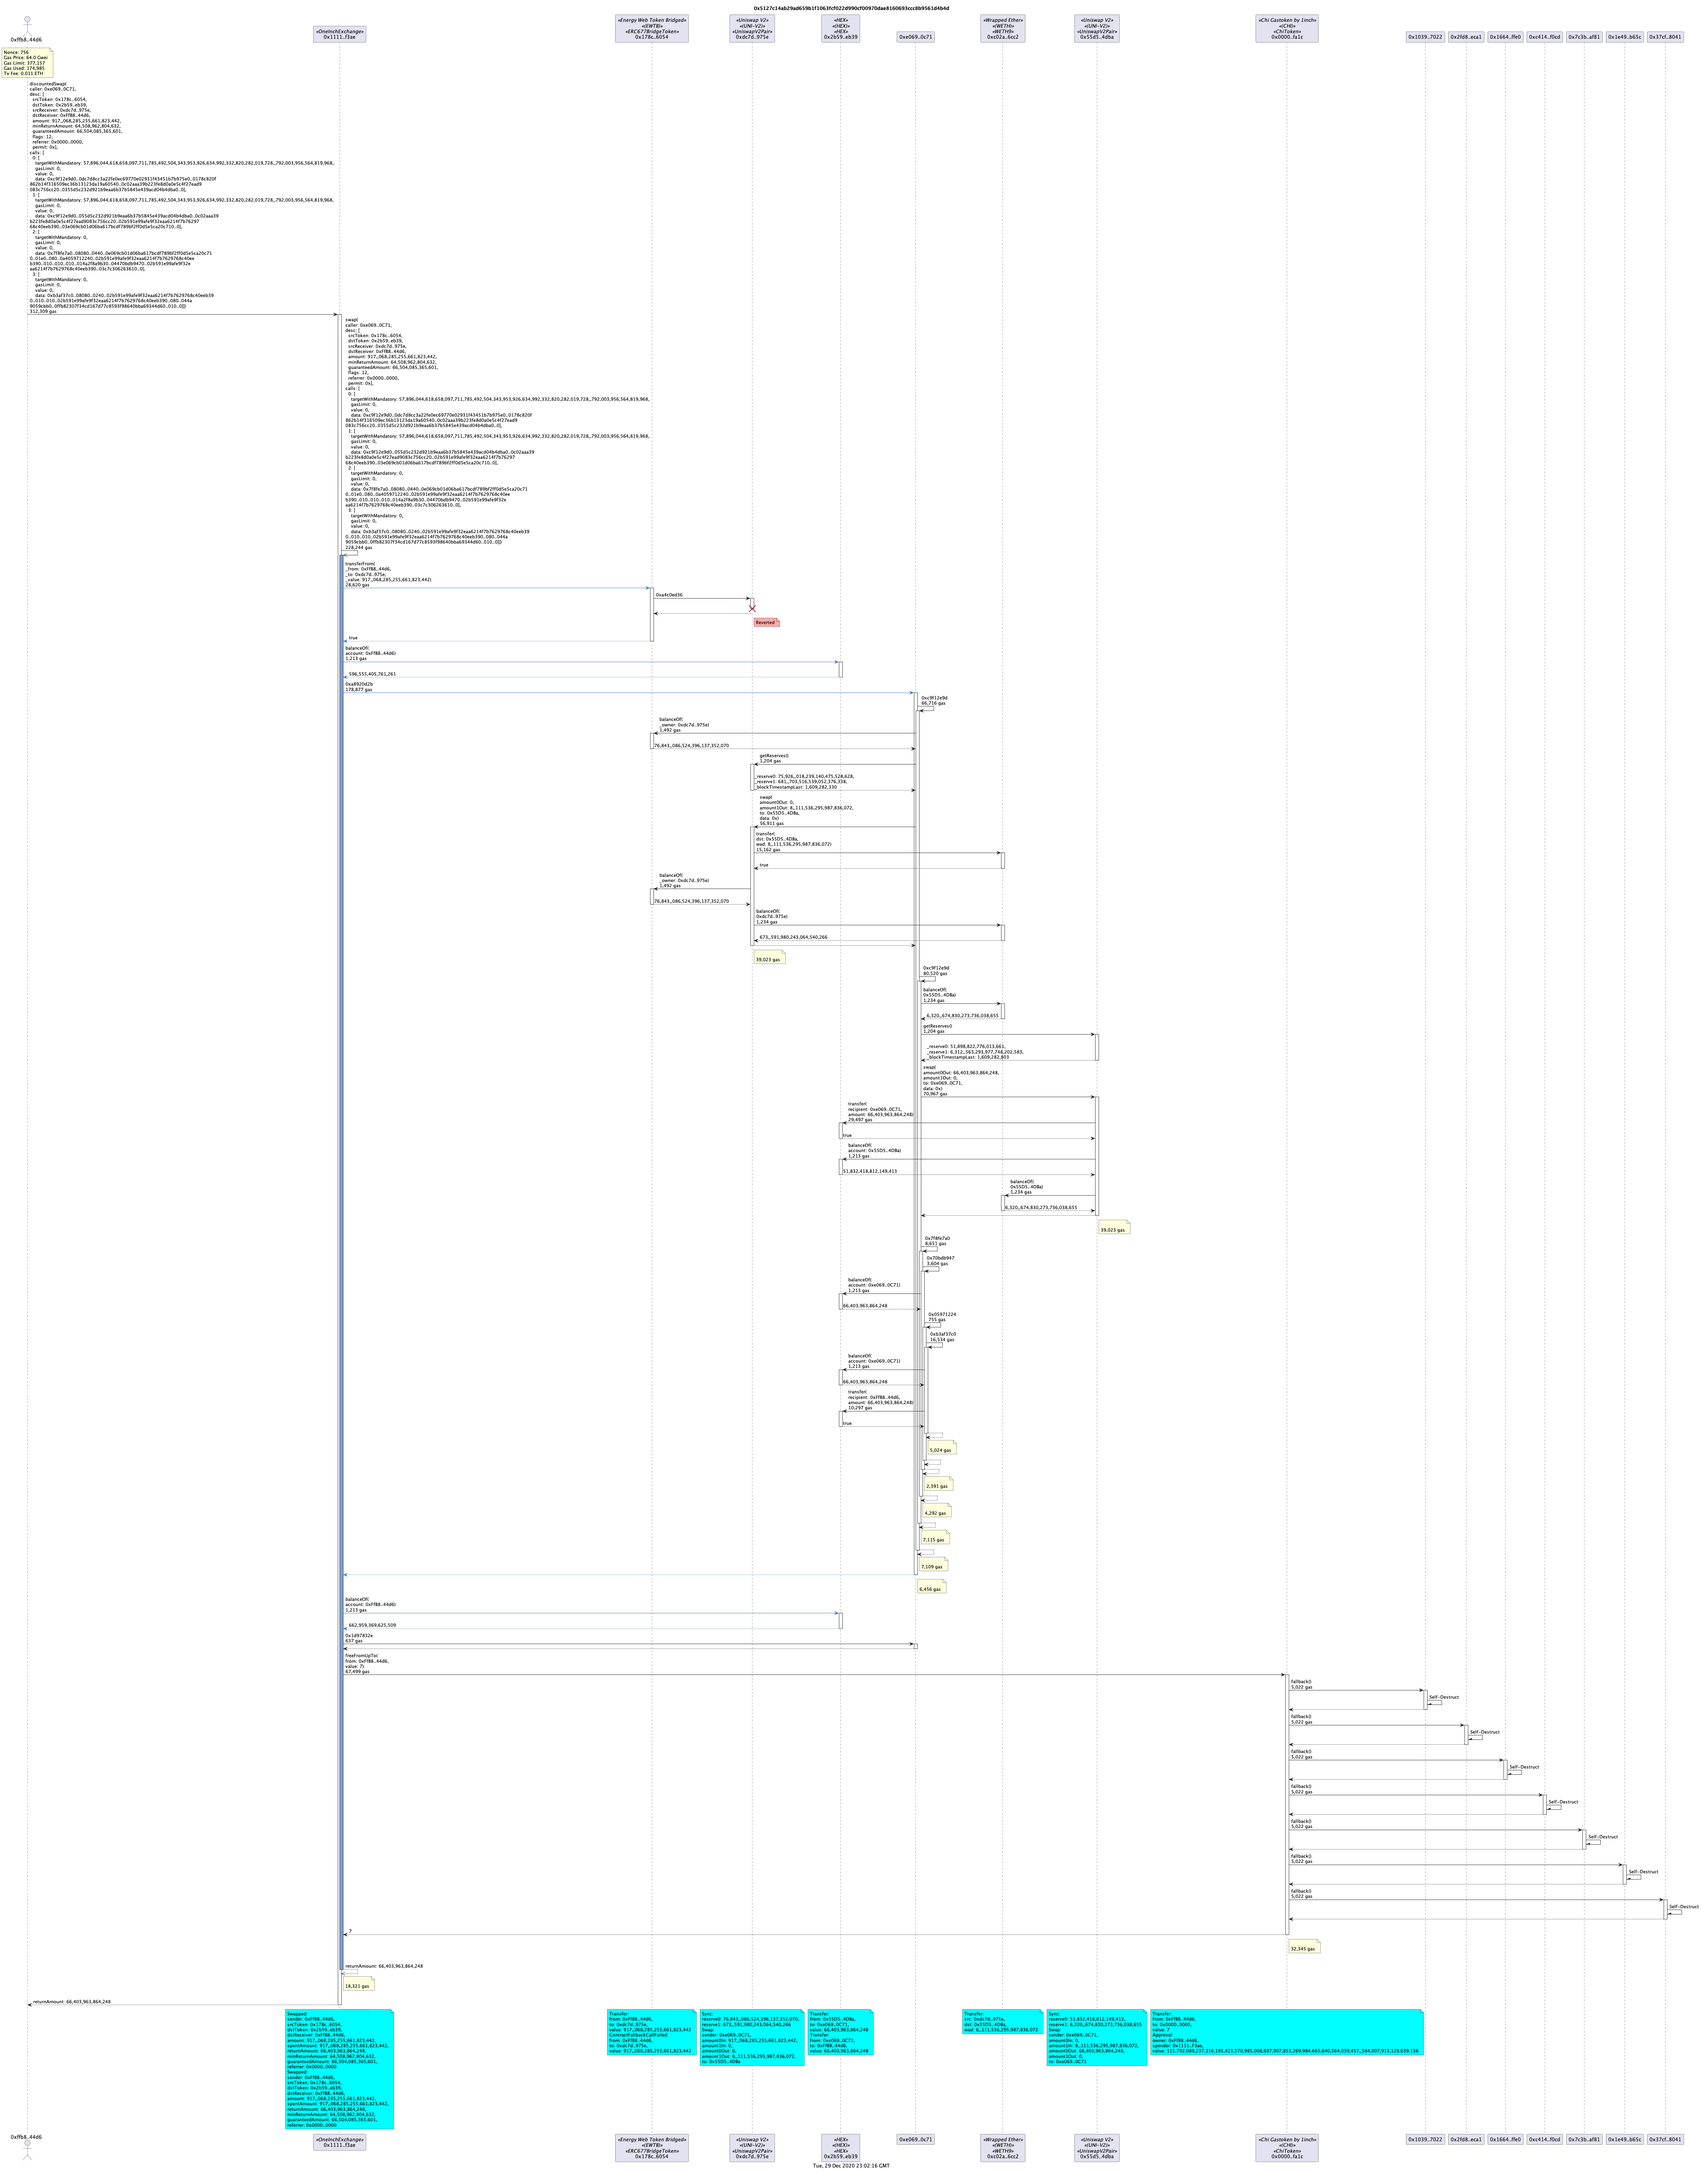
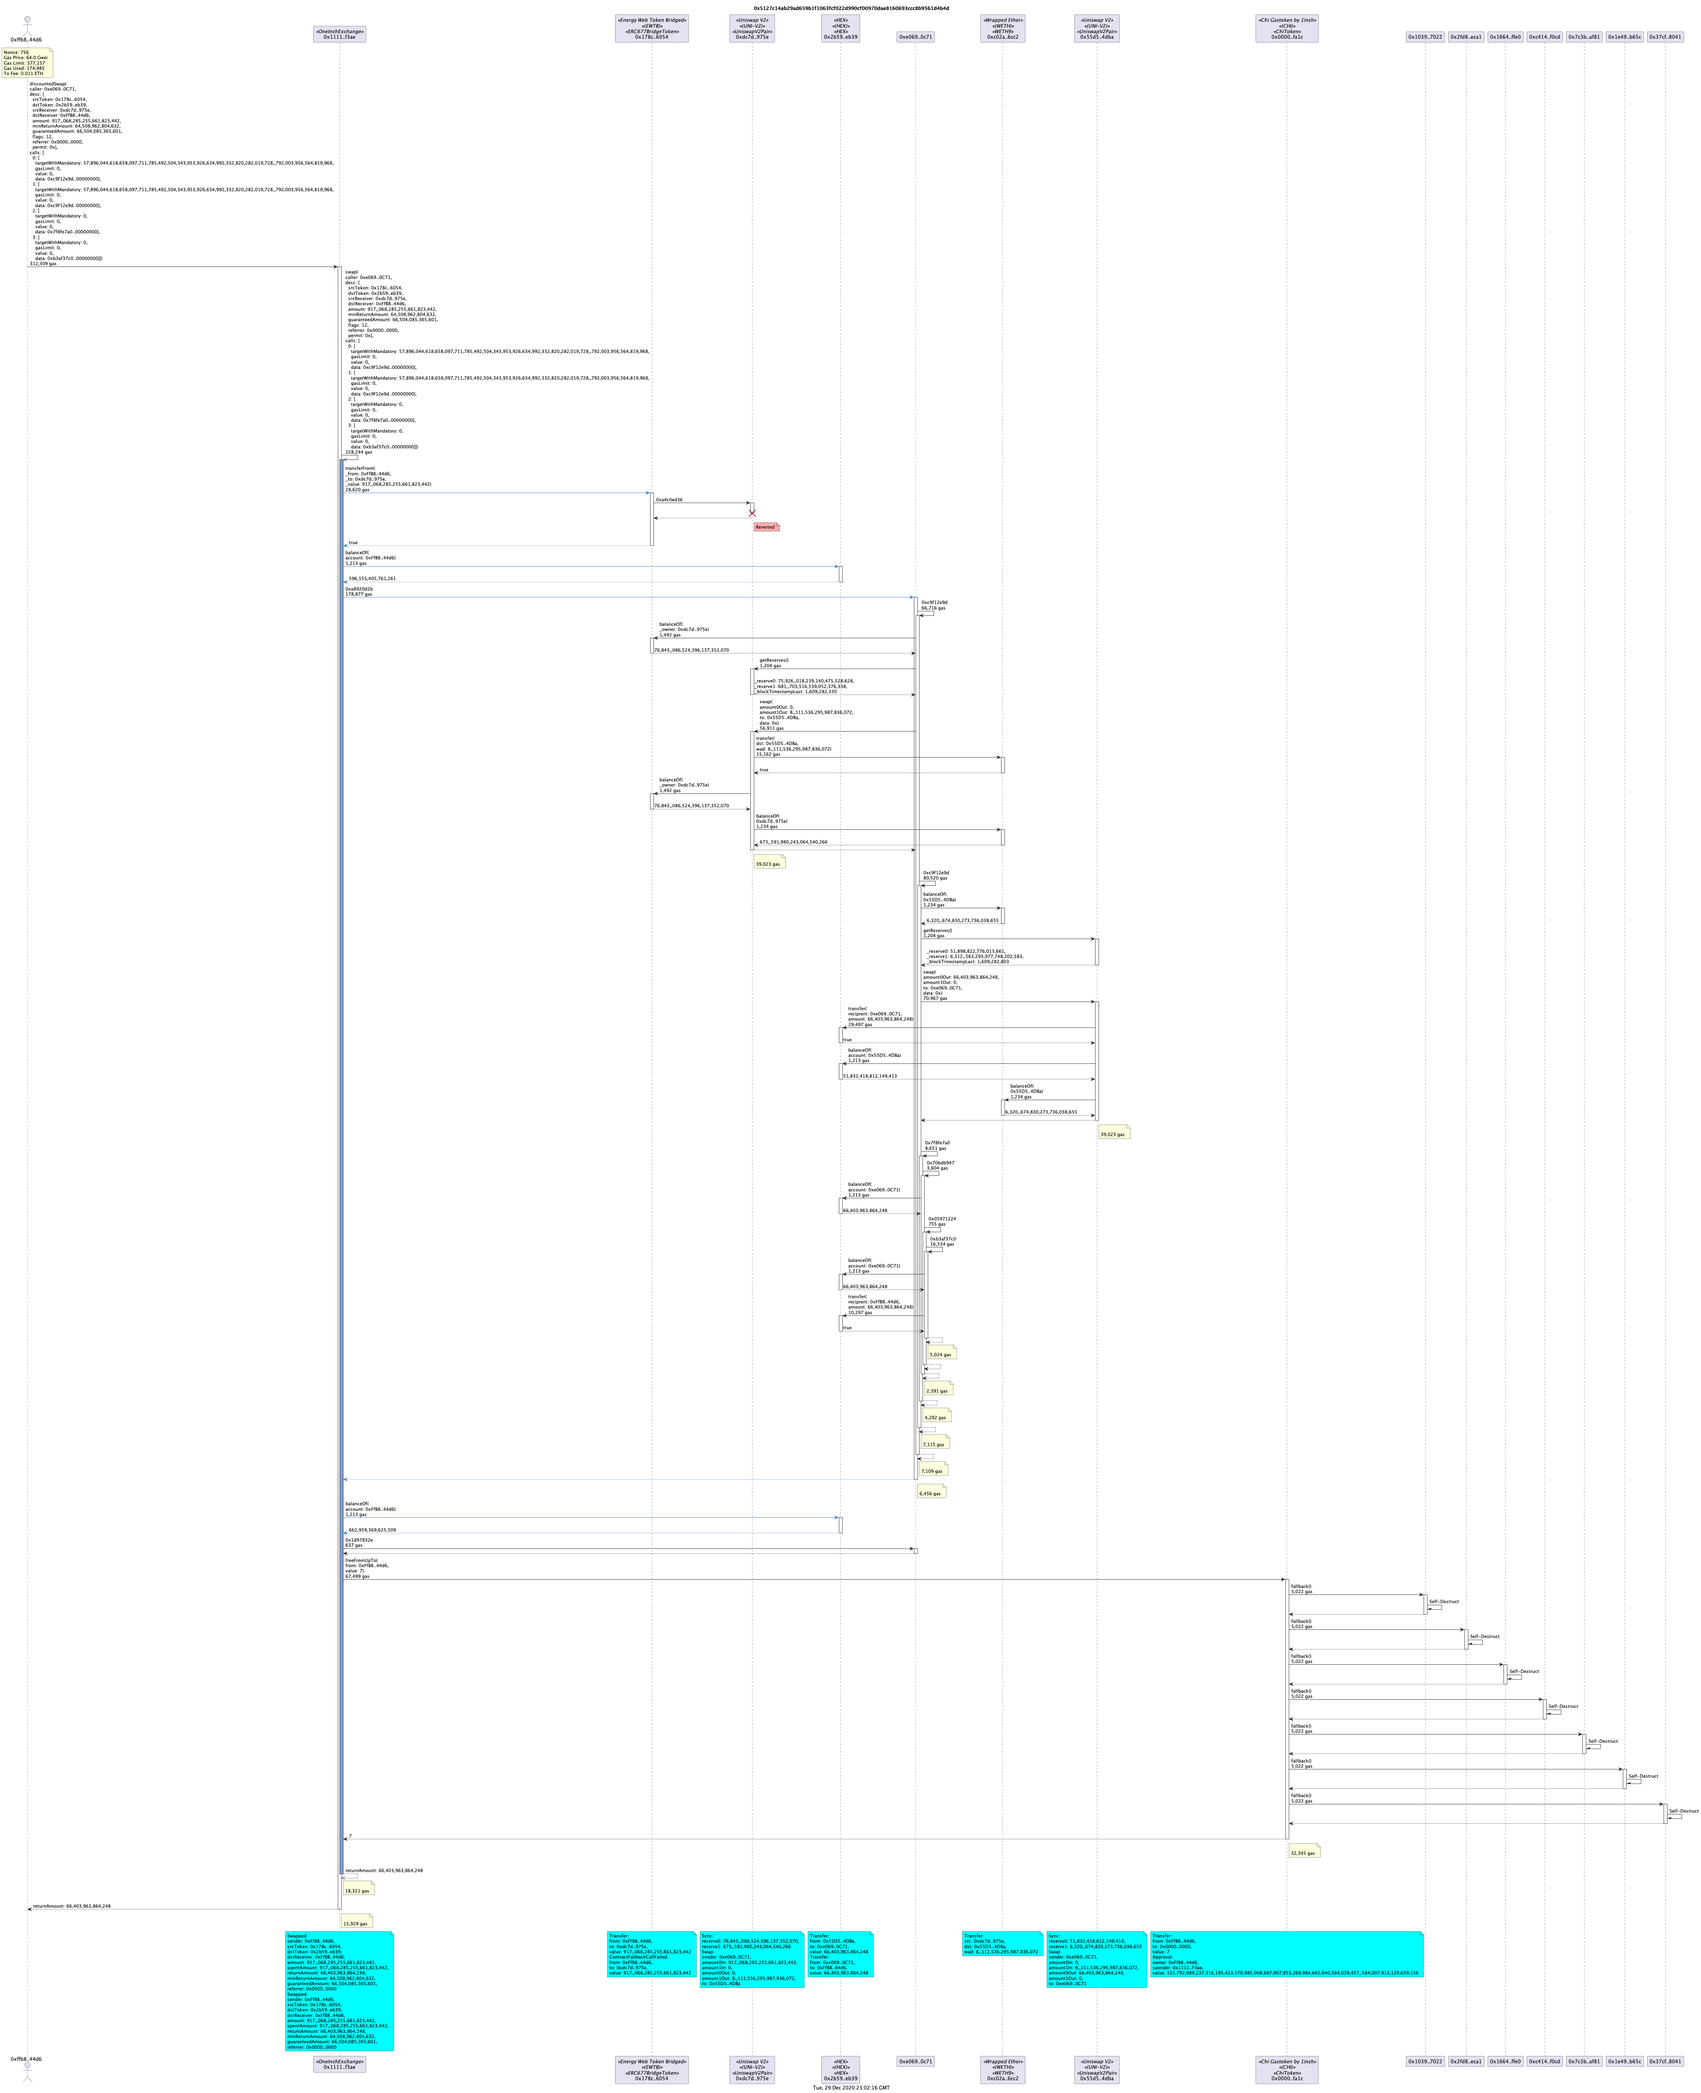
chore: reduced displayed bytes to just 8 bytes

diff --git a/src/ts/utils/__tests__/formatters.test.ts b/src/ts/utils/__tests__/formatters.test.ts
@@ -55,17 +55,18 @@ describe("Value formatters", () => {
         test.each([
             [
[1 lines of base64/hex data omitted]
-                "0xc9f12e9d0..0dc7d8cc3a22fe0ec69770e02931f43451b7b975e0..0178c820f\\n862b14f316509ec36b13123da19a6054",
+                "0xc9f12e9d..a19a6054",
             ],
             [
[1 lines of base64/hex data omitted]
-                "0x0..060..02a0..04e0..0110..0c02aaa39b223fe8d0a0e5c4f27ead9083c756\\ncc20..0d9e1ce17f2641f24ae83637ab66a2cca9c378b9f0..0d9e1ce17f2641f2\\n4ae83637ab66a2cca9c378b9f0..02260fac5e5542a773aa44fbcfedf7c193bc2c\\n5990..0e0839f9b9688a77924208ad509e29952dc6602610..0d081f06f06eb774\\nf642195e8dd4c393de07486a90..02260fac5e5542a773aa44fbcfedf7c193bc2c\\n5990..0e0839f9b9688a77924208ad509e29952dc6602610..02260fac5e5542a7\\n73aa44fbcfedf7c193bc2c5990..0d9e1ce17f2641f24ae83637ab66a2cca9c378\\nb9f0..0e0839f9b9688a77924208ad509e29952dc6602610..0be002c3a9a31ac2\\n0e7263118bdc5bb1273f34ad60..0e0839f9b9688a77924208ad509e29952dc660\\n2610..0d9e1ce17f2641f24ae83637ab66a2cca9c378b9f0..02260fac5e5542a7\\n73aa44fbcfedf7c193bc2c5990..0d9e1ce17f2641f24ae83637ab66a2cca9c378\\nb9f0..0c02aaa39b223fe8d0a0e5c4f27ead9083c756cc20..0110..068155a436\\n76e000020..067d79f4caaaedd3a40..0711164b95cf0b4aaa0..0110..0220..0\\n280..03a0..04c0..0540..05c0..060..0680..070..0780..08c0..0920..096\\n0..09e0..0b40..0bc0..0d0..0242e1a7d4d0..068155a43676e000020..0e4fb\\n3bdb410..06fc23ac0..080..0e84f2bbdfb129ed6e495c7f879f3e6340..05fef\\nb3230..020..0c02aaa39b223fe8d0a0e5c4f27ead9083c756cc20..0e0839f9b9\\n688a77924208ad509e29952dc6602610..0e4fb3bdb410..05f5e10..080..0e84\\nf2bbdfb129ed6e495c7f879f3e6340..05fefb3230..020..0c02aaa39b223fe8d\\n0a0e5c4f27ead9083c756cc20..02260fac5e5542a773aa44fbcfedf7c193bc2c5\\n990..044a9059cbb0..0d081f06f06eb774f642195e8dd4c393de07486a90..010\\n..044a9059cbb0..0d081f06f06eb774f642195e8dd4c393de07486a90..06f332\\nda80..04fff6cae90..044095ea7b30..0e0839f9b9688a77924208ad509e29952\\ndc660261ffffffffffffffffffffffffffffffffffffffffffffffffffffffffff\\nffffff0..04447e7ef240..02260fac5e5542a773aa44fbcfedf7c193bc2c5990.\\n.02faf080..044095ea7b30..0d9e1ce17f2641f24ae83637ab66a2cca9c378b9f\\nffffffffffffffffffffffffffffffffffffffffffffffffffffffffffffffff0.\\n.010438ed17390..02faf07e0..0a0..0e84f2bbdfb129ed6e495c7f879f3e6340\\n..05fefb3230..020..02260fac5e5542a773aa44fbcfedf7c193bc2c5990..0e0\\n839f9b9688a77924208ad509e29952dc6602610..024fa09e630..02260fac5e55\\n42a773aa44fbcfedf7c193bc2c5990..04fff6cae90..044095ea7b30..0d9e1ce\\n17f2641f24ae83637ab66a2cca9c378b9f0..015291ef103c0..012418cbafe50.\\n.015291ef103c0..0a0..0e84f2bbdfb129ed6e495c7f879f3e6340..05fefb323\\n0..030..0e0839f9b9688a77924208ad509e29952dc6602610..0dac17f958d2ee\\n523a2206206994597c13d831ec70..0c02aaa39b223fe8d0a0e5c4f27ead9083c7\\n56cc20..044095ea7b30..0d9e1ce17f2641f24ae83637ab66a2cca9c378b9ffff\\nfffffffffffffffffffffffffffffffffffffffffffffffffffffffffffff0..01\\n0418cbafe50..05e67a260..0a0..0e84f2bbdfb129ed6e495c7f879f3e6340..0\\n5fefb3230..020..02260fac5e5542a773aa44fbcfedf7c193bc2c5990..0c02aa\\na39b223fe8d0a0e5c4f27ead9083c756cc20..04d0e30db0..01240",
+                "0x00000000..00001240",
             ],
-            ["0x00004000300201", "0x00004000300201"],
-            ["0x00000", "0x0..0"],
+            ["0xFEDCBA9876543210", "0xFEDCBA9876543210"],
+            ["0xFEDCBA9876543210FF", "0xFEDCBA98..543210FF"],
+            ["0xFEDCBA9876543210FEDCBA9876543210", "0xFEDCBA98..76543210"],
             [
                 "0xf8ed0f78ddda1c28f261153b733dff2b470c8209",
-                "0xf8ed0f78ddda1c28f261153b733dff2b470c8209",
+                "0xf8ed0f78..470c8209",
             ],
             [undefined, ""],
             [null, ""],

diff --git a/src/ts/utils/formatters.ts b/src/ts/utils/formatters.ts
@@ -13,24 +13,11 @@ export const shortAddress = (address: string): string => {
     return address.substr(0, 6) + ".." + address.substr(-4, 4)
 }
 
-// Replaces zero padding (5 or more 0) with 0..0. eg the following
-// 0xc9f12e9d000000000000000000000000dc7d8cc3a22fe0ec69770e02931f43451b7b975e000000000000000000000000178c820f862b14f316509ec36b13123da19a6054
-// becomes
-// 0xc9f12e9d0..0dc7d8cc3a22fe0ec69770e02931f43451b7b975e0..0178c820f862b14f316509ec36b13123da19a6054
 export const shortBytes = (bytes: string, wrapLength = 66): string => {
     if (!bytes) return ""
     if (typeof bytes !== "string") return bytes
-    // replace 5 or more zeros
-    const noZeroPadding = bytes.replace(/0{5,}/g, "0..0")
-    // split the data up into wrapLength strings
-    const splitData = noZeroPadding.match(
-        new RegExp(".{1," + wrapLength + "}", "g")
-    )
-    // Join the split data strings back with a carrage return
-    const wrappedString = splitData.reduce((accumulator, currentValue) => {
-        return accumulator + "\\n" + currentValue
-    })
-    return wrappedString
+    if (bytes.length <= 18) return bytes
+    return bytes.slice(0, 10) + ".." + bytes.slice(-8)
 }
 
 // Adds thousands commas and a double comma after the 18th digit from the left.

diff --git a/src/ts/plantuml.ts b/src/ts/plantuml.ts
@@ -72,6 +72,7 @@ const pipePuml = (
             if (code === 0) {
                 resolve(code)
             } else {
+                console.error(error)
                 reject(
                     new Error(
                         `PlantUML process existed with status code ${code}. ${error}`
